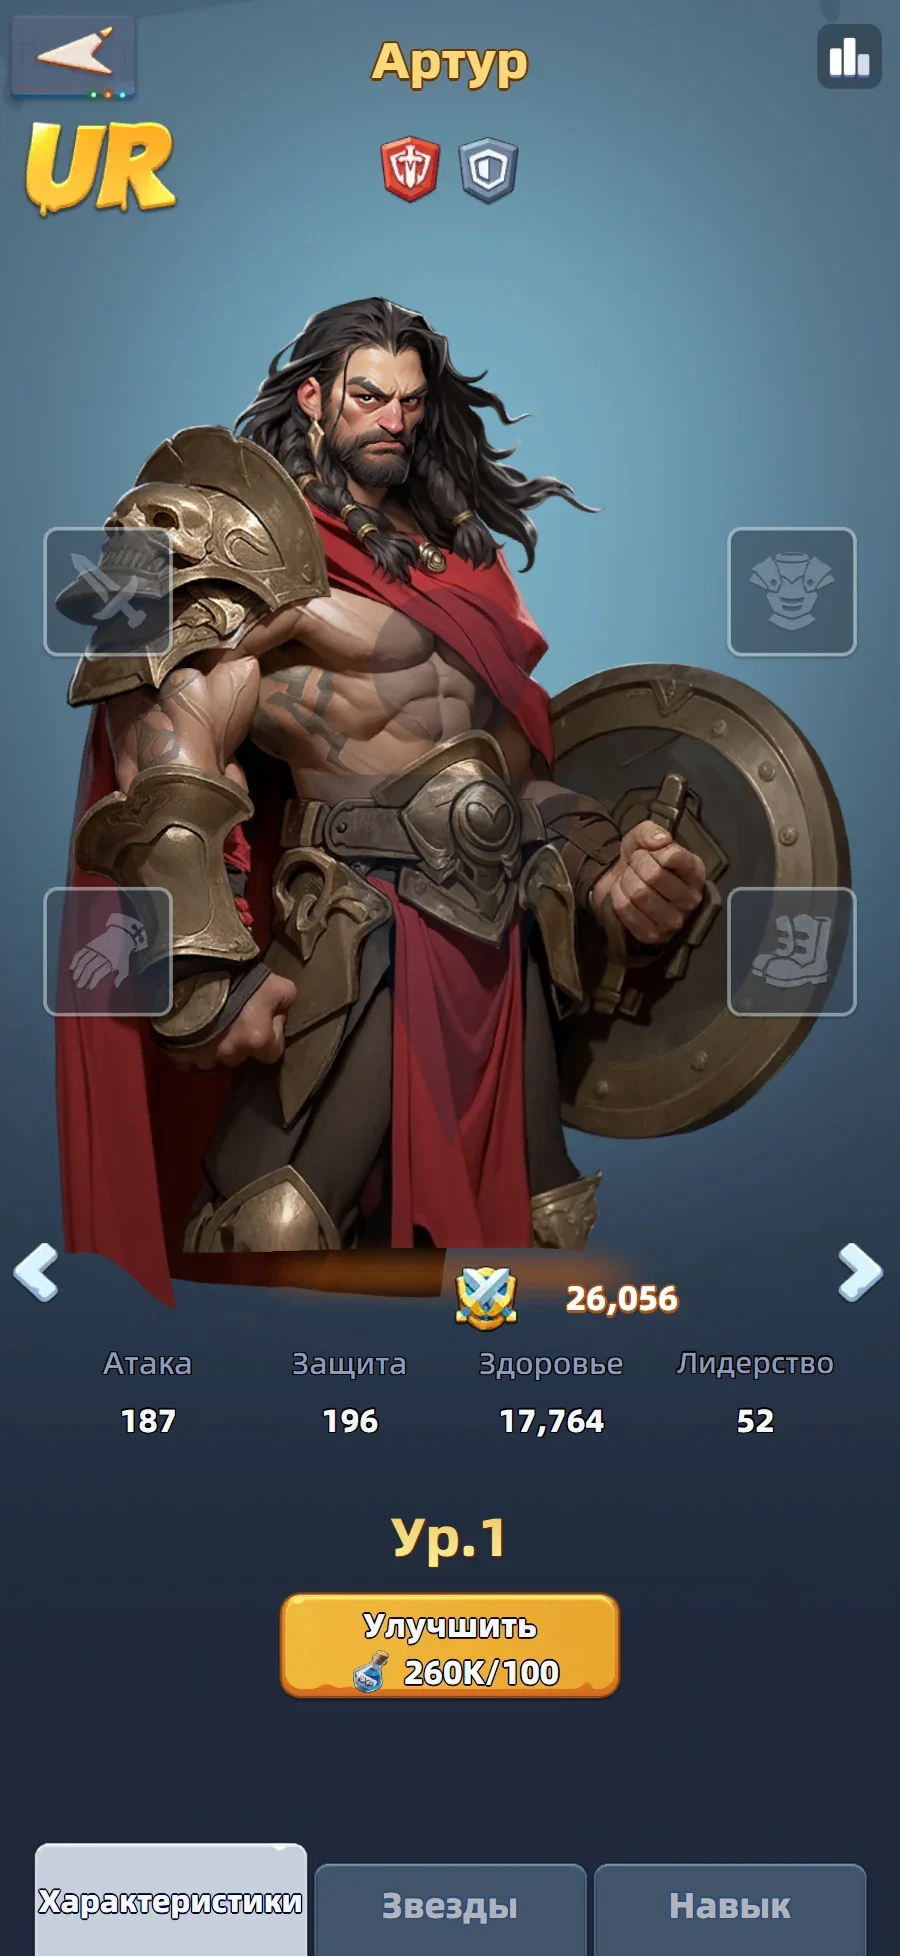
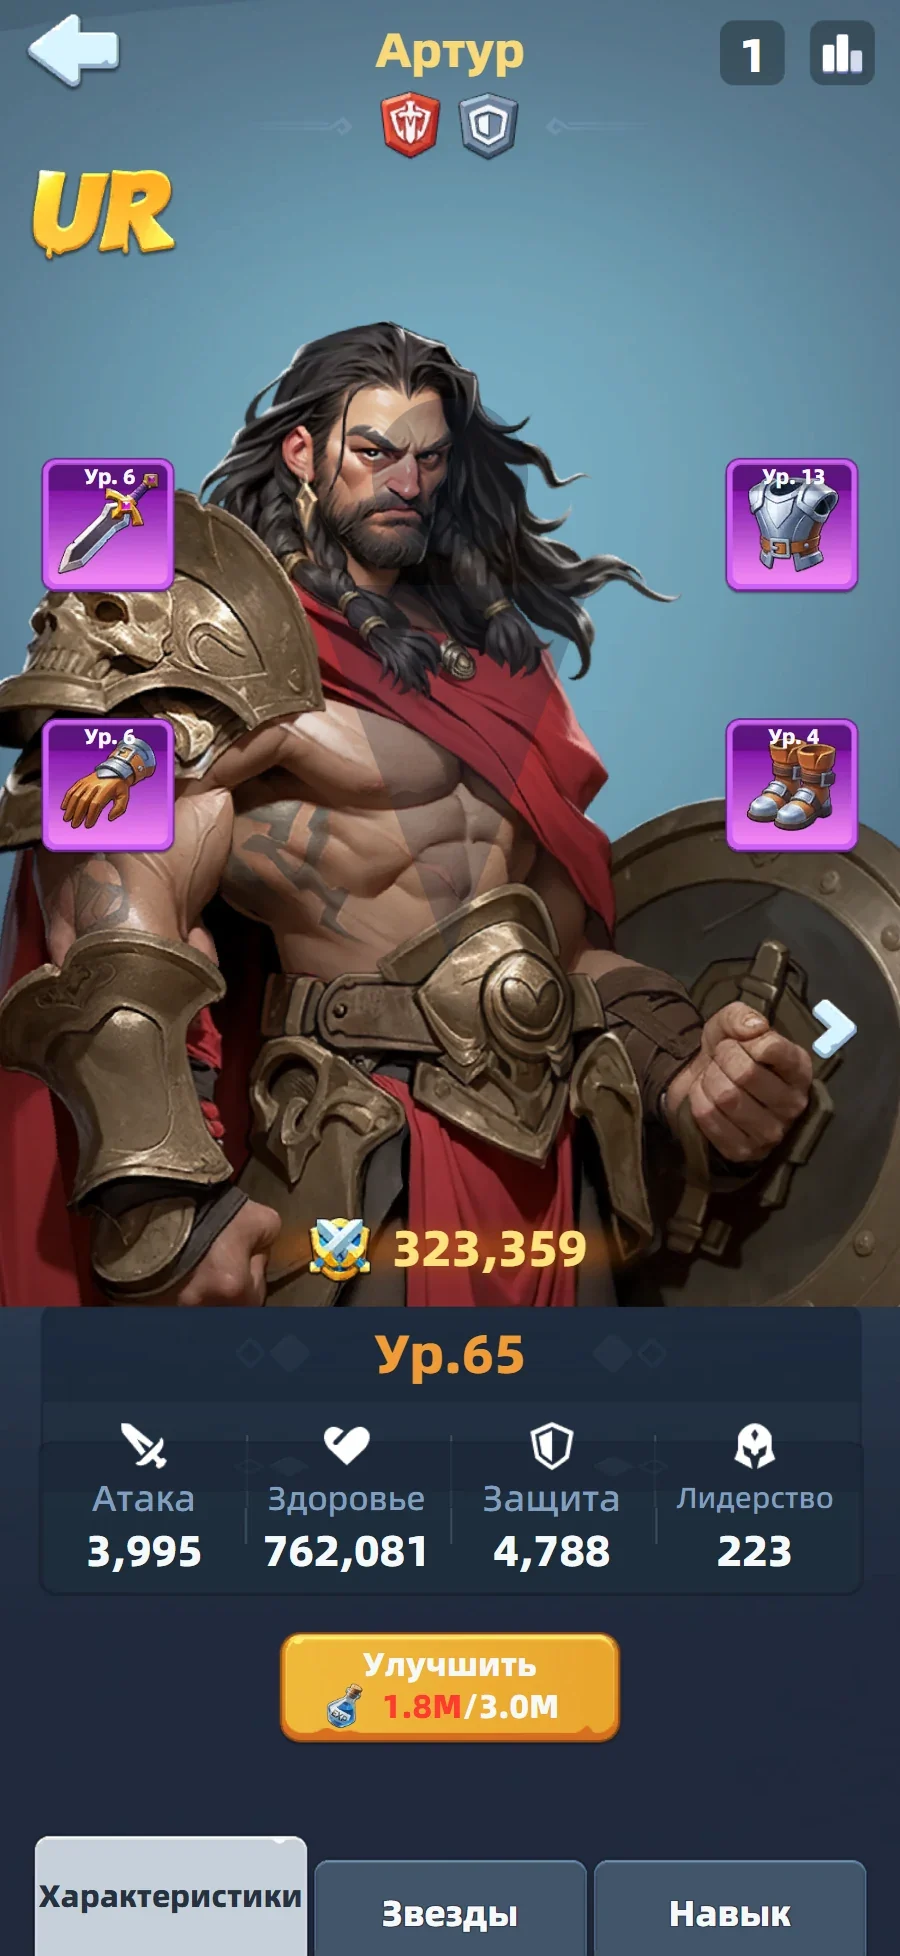
Герои: окно героя по нынешней версии игры (MiddleAges): уровень над характеристиками, значки, вещи Артура как на скрине игры

diff --git a/heroes.html b/heroes.html
@@ -185,9 +185,9 @@
   <h2>Как прокачивать героя: 4 вещи</h2>
   <p class="sub">Всё это — в окне героя: на главном экране слева внизу кнопка <b>«Герой»</b> → нажми на нужного героя.</p>
   <div class="grid2">
-    <figure class="side-shot"><div class="shot"><img src="assets/shots/hero-window.webp" alt="Окно героя Артура: вкладка «Характеристики»" loading="lazy"><span class="ring rect" style="left:12%;top:30.2%;width:16%;aspect-ratio:1"></span><span class="ring rect" style="left:50%;top:84.2%;width:38.1%;aspect-ratio:3.11"></span><span class="ring rect" style="left:65.5%;top:96.9%;width:62.3%;aspect-ratio:5.08"></span></div><p class="cap">Окно героя. Рамки: снаряжение, «Улучшить», «Звезды» и «Навык».</p></figure>
+    <figure class="side-shot"><div class="shot"><img src="assets/shots/hero-window.webp" alt="Окно героя Артура: вкладка «Характеристики»" loading="lazy"><span class="ring rect" style="left:12%;top:26.8%;width:16%;aspect-ratio:1"></span><span class="ring rect" style="left:50%;top:86.3%;width:38.1%;aspect-ratio:2.98"></span><span class="ring rect" style="left:65.5%;top:96.9%;width:62.3%;aspect-ratio:5.08"></span></div><p class="cap">Окно героя. Рамки: снаряжение, «Улучшить», «Звезды» и «Навык».</p></figure>
     <div class="grid2">
-      <div class="card"><img class="ic" src="assets/game/antidote.png" alt=""><h3>1. Уровень</h3><p>Кнопка <b>«Улучшить»</b> под характеристиками. Качается <b>противоядием</b> — на кнопке видно, сколько его есть и сколько нужно. Даёт атаку, здоровье, защиту и лидерство. Потолок уровня зависит от Святилища: Святилище 20 — герой до 100 уровня, Святилище 30 — до 150.</p></div>
+      <div class="card"><img class="ic" src="assets/game/antidote.png" alt=""><h3>1. Уровень</h3><p>Кнопка <b>«Улучшить»</b> под характеристиками. Качается <b>противоядием</b> — на кнопке видно, сколько его есть и сколько нужно (красное число — не хватает). Даёт атаку, здоровье, защиту и лидерство. Потолок уровня зависит от Святилища: Святилище 20 — герой до 100 уровня, Святилище 30 — до 150.</p></div>
       <div class="card"><img class="ic" src="assets/game/star.png" alt=""><h3>2. Звёзды</h3><p>Вкладка <b>«Звезды»</b> внизу окна. Качаются <b>фрагментами</b> <img class="inl" src="assets/game/shard-marlena.png" alt=""> этого героя (картинка с его лицом) или универсальными. Звёзды открывают новые навыки и сильно поднимают силу. После 4-й звезды герой заметно крепнет.</p></div>
       <div class="card"><img class="ic" src="assets/game/skill-badge.png" alt=""><h3>3. Навыки</h3><p>Вкладка <b>«Навык»</b> внизу окна. Качаются <b>значками навыков</b> <img class="inl" src="assets/game/skill-badge.png" alt="">. Поднимают цифры навыков: урон, щиты, усиления. Значков всегда мало — главному герою урона в первую очередь.</p></div>
       <div class="card"><img class="ic" src="assets/game/go-gear.png" alt=""><h3>4. Снаряжение</h3><p>Четыре клетки по бокам героя: слева <b>меч</b> и <b>перчатки</b>, справа <b>броня</b> и <b>сапоги</b>. Серая клетка с силуэтом — вещь не надета, нажми на неё, чтобы надеть. Подробно — в разделе <a href="gear.html">Снаряжение</a>.</p></div>

diff --git a/src/heroes.html b/src/heroes.html
@@ -150,9 +150,9 @@
   <h2>Как прокачивать героя: 4 вещи</h2>
   <p class="sub">Всё это — в окне героя: на главном экране слева внизу кнопка <b>«Герой»</b> → нажми на нужного героя.</p>
   <div class="grid2">
-    <figure class="side-shot"><div class="shot"><img src="assets/shots/hero-window.webp" alt="Окно героя Артура: вкладка «Характеристики»" loading="lazy"><span class="ring rect" style="left:12%;top:30.2%;width:16%;aspect-ratio:1"></span><span class="ring rect" style="left:50%;top:84.2%;width:38.1%;aspect-ratio:3.11"></span><span class="ring rect" style="left:65.5%;top:96.9%;width:62.3%;aspect-ratio:5.08"></span></div><p class="cap">Окно героя. Рамки: снаряжение, «Улучшить», «Звезды» и «Навык».</p></figure>
+    <figure class="side-shot"><div class="shot"><img src="assets/shots/hero-window.webp" alt="Окно героя Артура: вкладка «Характеристики»" loading="lazy"><span class="ring rect" style="left:12%;top:26.8%;width:16%;aspect-ratio:1"></span><span class="ring rect" style="left:50%;top:86.3%;width:38.1%;aspect-ratio:2.98"></span><span class="ring rect" style="left:65.5%;top:96.9%;width:62.3%;aspect-ratio:5.08"></span></div><p class="cap">Окно героя. Рамки: снаряжение, «Улучшить», «Звезды» и «Навык».</p></figure>
     <div class="grid2">
-      <div class="card"><img class="ic" src="assets/game/antidote.png" alt=""><h3>1. Уровень</h3><p>Кнопка <b>«Улучшить»</b> под характеристиками. Качается <b>противоядием</b> — на кнопке видно, сколько его есть и сколько нужно. Даёт атаку, здоровье, защиту и лидерство. Потолок уровня зависит от Святилища: Святилище 20 — герой до 100 уровня, Святилище 30 — до 150.</p></div>
+      <div class="card"><img class="ic" src="assets/game/antidote.png" alt=""><h3>1. Уровень</h3><p>Кнопка <b>«Улучшить»</b> под характеристиками. Качается <b>противоядием</b> — на кнопке видно, сколько его есть и сколько нужно (красное число — не хватает). Даёт атаку, здоровье, защиту и лидерство. Потолок уровня зависит от Святилища: Святилище 20 — герой до 100 уровня, Святилище 30 — до 150.</p></div>
       <div class="card"><img class="ic" src="assets/game/star.png" alt=""><h3>2. Звёзды</h3><p>Вкладка <b>«Звезды»</b> внизу окна. Качаются <b>фрагментами</b> <img class="inl" src="assets/game/shard-marlena.png" alt=""> этого героя (картинка с его лицом) или универсальными. Звёзды открывают новые навыки и сильно поднимают силу. После 4-й звезды герой заметно крепнет.</p></div>
       <div class="card"><img class="ic" src="assets/game/skill-badge.png" alt=""><h3>3. Навыки</h3><p>Вкладка <b>«Навык»</b> внизу окна. Качаются <b>значками навыков</b> <img class="inl" src="assets/game/skill-badge.png" alt="">. Поднимают цифры навыков: урон, щиты, усиления. Значков всегда мало — главному герою урона в первую очередь.</p></div>
       <div class="card"><img class="ic" src="assets/game/go-gear.png" alt=""><h3>4. Снаряжение</h3><p>Четыре клетки по бокам героя: слева <b>меч</b> и <b>перчатки</b>, справа <b>броня</b> и <b>сапоги</b>. Серая клетка с силуэтом — вещь не надета, нажми на неё, чтобы надеть. Подробно — в разделе <a href="gear.html">Снаряжение</a>.</p></div>
